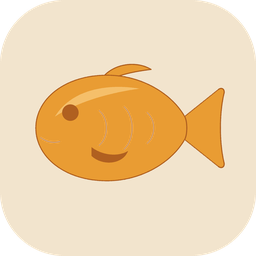
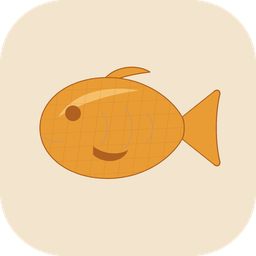
v1.2.6: 이름을 '붕어빵'으로, 창 아이콘 미적용 버그 수정
- 앱 이름을 '붕어빵'으로 변경 (창 제목, 앱 화면, 사이트 3종)
  구글 인증이 '동의화면 이름 = 홈페이지 이름'을 검사하므로 함께 맞춤
- 창/작업표시줄 아이콘이 반영되지 않던 원인 수정:
  pywebview의 create_window에는 아이콘 인자가 없어 app.png가 토스트
  알림에만 쓰이고 있었음. 창 생성 후 Win32 WM_SETICON으로 직접 설정
- 로고를 붕어빵 실물에 가깝게: 몸통에 틀 자국(격자 결) 추가.
  앱 SVG는 pattern+clipPath, 아이콘은 마스크로 몸통 안쪽만 적용
- 캐시 버스터 1.2.6으로 동기화

diff --git a/web/index.html b/web/index.html
@@ -3,9 +3,9 @@
   <head>
     <meta charset="utf-8" />
     <meta name="viewport" content="width=device-width, initial-scale=1" />
-    <title>DGIST LMS AutoSaver</title>
+    <title>붕어빵</title>
     <link rel="icon" type="image/svg+xml" href="/favicon.svg" />
-    <link rel="stylesheet" href="/styles.css?v=1.2.5" />
+    <link rel="stylesheet" href="/styles.css?v=1.2.6" />
   </head>
   <body>
     <div class="app-shell">
@@ -14,10 +14,23 @@
           <div class="brand-mark bungeoppang" aria-hidden="true">
             <!-- 붕어빵: 꼬리·등지느러미 → 몸통 → 가슴지느러미·비늘·눈 순으로 겹침 -->
             <svg viewBox="0 0 24 24">
+              <defs>
+                <!-- 붕어빵 틀 자국 -->
+                <pattern id="bpGrid" width="1.55" height="1.55" patternUnits="userSpaceOnUse"
+                         patternTransform="rotate(12)">
+                  <path d="M0 0V1.55M0 0H1.55" stroke="currentColor" stroke-width="0.16" fill="none" />
+                </pattern>
+                <clipPath id="bpBodyClip">
+                  <path d="M2.4 12C2.4 9 5.4 6.5 9.8 6.5C13.5 6.5 16.6 8.5 17.9 10.8C18.2 11.3 18.2 12.7 17.9 13.2C16.6 15.5 13.5 17.5 9.8 17.5C5.4 17.5 2.4 15 2.4 12Z" />
+                </clipPath>
+              </defs>
               <path class="bp-body" d="M17.9 10.8L21.4 8C21.8 7.7 22.1 8 22 8.4C21.5 10.5 21.5 13.5 22 15.6C22.1 16 21.8 16.3 21.4 16L17.9 13.2Z" />
               <path class="bp-body" d="M9 7.3C10 5.3 12.8 4.9 14.4 5.9C12.7 6.1 10.6 6.5 9.4 7.4Z" />
               <path class="bp-body" d="M2.4 12C2.4 9 5.4 6.5 9.8 6.5C13.5 6.5 16.6 8.5 17.9 10.8C18.2 11.3 18.2 12.7 17.9 13.2C16.6 15.5 13.5 17.5 9.8 17.5C5.4 17.5 2.4 15 2.4 12Z" />
               <path class="bp-hi" d="M4.4 10.8C6 8.2 9.4 7.3 13.2 7.9C9.6 8.4 6.6 9.4 4.4 10.8Z" />
+              <g class="bp-grid" clip-path="url(#bpBodyClip)">
+                <rect x="0" y="0" width="24" height="24" fill="url(#bpGrid)" />
+              </g>
               <path class="bp-fin" d="M8.2 14C9.4 14.9 11 15 12 14.4C11.4 15.9 9.2 15.9 8.2 14.9Z" />
               <path class="bp-scale" d="M9 10.2C10 11 10 13 9 13.8" />
               <path class="bp-scale" d="M11.6 9.8C12.7 10.8 12.7 13.2 11.6 14.2" />
@@ -27,8 +40,8 @@
             </svg>
           </div>
           <div>
-            <strong>DGIST LMS</strong>
-            <span>AutoSaver</span>
+            <strong>붕어빵</strong>
+            <span>DGIST LMS 도우미</span>
           </div>
         </div>
 
@@ -759,6 +772,6 @@
     </dialog>
 
     <div class="toast" id="toast" role="status" aria-live="polite"></div>
-    <script src="/app.js?v=1.2.5" defer></script>
+    <script src="/app.js?v=1.2.6" defer></script>
   </body>
 </html>

diff --git a/docs/index.html b/docs/index.html
@@ -3,7 +3,7 @@
 <head>
 <meta charset="utf-8" />
 <meta name="viewport" content="width=device-width, initial-scale=1" />
-<title>DGIST LMS AutoSaver</title>
+<title>붕어빵</title>
 <meta name="description" content="DGIST LMS 자료와 학교 메일을 자동으로 정리해 주는 개인용 학습 관리 앱." />
 <link rel="icon" type="image/svg+xml" href="favicon.svg" />
 <link rel="stylesheet" href="style.css" />
@@ -31,8 +31,8 @@
       </svg>
     </div>
     <div class="bar-title">
-      <strong>DGIST LMS</strong>
-      <span>AutoSaver</span>
+      <strong>붕어빵</strong>
+      <span>DGIST LMS 도우미</span>
     </div>
     <nav>
       <a href="privacy.html">개인정보처리방침</a>
@@ -43,9 +43,9 @@
 </header>
 
 <main class="wrap">
-  <h1>DGIST LMS AutoSaver</h1>
+  <h1>붕어빵</h1>
   <p class="lead">
-    <strong>DGIST LMS AutoSaver</strong>는 DGIST 학생이 강의자료와 학교 메일을 자동으로 정리하도록
+    <strong>붕어빵</strong>은 DGIST 학생이 강의자료와 학교 메일을 자동으로 정리하도록
     도와주는 개인용 데스크톱 앱입니다. 사용자의 컴퓨터에서 실행되며,
     LMS에 올라온 강의자료를 과목별로 내려받고, 과제 마감일을 정리해 보여 주며,
     학교 메일에서 찾은 일정을 사용자의 <strong>Google 캘린더</strong>에 등록하고,

diff --git a/docs/privacy.html b/docs/privacy.html
@@ -3,8 +3,8 @@
 <head>
 <meta charset="utf-8" />
 <meta name="viewport" content="width=device-width, initial-scale=1" />
-<title>개인정보처리방침 · DGIST LMS AutoSaver</title>
-<meta name="description" content="DGIST LMS AutoSaver 개인정보처리방침" />
+<title>개인정보처리방침 · 붕어빵</title>
+<meta name="description" content="붕어빵 개인정보처리방침" />
 <link rel="icon" type="image/svg+xml" href="favicon.svg" />
 <link rel="stylesheet" href="style.css" />
 </head>
@@ -31,8 +31,8 @@
       </svg>
     </div>
     <div class="bar-title">
-      <strong>DGIST LMS</strong>
-      <span>AutoSaver</span>
+      <strong>붕어빵</strong>
+      <span>DGIST LMS 도우미</span>
     </div>
     <nav>
       <a href="index.html">홈</a>
@@ -43,7 +43,7 @@
 
 <main class="wrap">
   <h1>개인정보처리방침</h1>
-  <p class="meta">최종 수정일: 2026년 7월 23일 · 적용 대상: DGIST LMS AutoSaver 앱(이하 &ldquo;앱&rdquo;)</p>
+  <p class="meta">최종 수정일: 2026년 7월 23일 · 적용 대상: 붕어빵 앱(이하 &ldquo;앱&rdquo;)</p>
 
   <h2>1. 핵심 요약</h2>
   <div class="card">

diff --git a/docs/terms.html b/docs/terms.html
@@ -3,8 +3,8 @@
 <head>
 <meta charset="utf-8" />
 <meta name="viewport" content="width=device-width, initial-scale=1" />
-<title>이용약관 · DGIST LMS AutoSaver</title>
-<meta name="description" content="DGIST LMS AutoSaver 이용약관" />
+<title>이용약관 · 붕어빵</title>
+<meta name="description" content="붕어빵 이용약관" />
 <link rel="icon" type="image/svg+xml" href="favicon.svg" />
 <link rel="stylesheet" href="style.css" />
 </head>
@@ -25,8 +25,8 @@
       </svg>
     </div>
     <div class="bar-title">
-      <strong>DGIST LMS</strong>
-      <span>AutoSaver</span>
+      <strong>붕어빵</strong>
+      <span>DGIST LMS 도우미</span>
     </div>
     <nav>
       <a href="index.html">홈</a>
@@ -41,7 +41,7 @@
 
   <h2>1. 서비스 개요</h2>
   <p>
-    DGIST LMS AutoSaver(이하 &ldquo;앱&rdquo;)는 DGIST 학생이 자신의 학습 자료와 학교 메일을
+    붕어빵(이하 &ldquo;앱&rdquo;)는 DGIST 학생이 자신의 학습 자료와 학교 메일을
     편하게 관리하도록 돕는 개인용 도구입니다. 앱은 사용자 본인의 컴퓨터에서 실행되며,
     개발자는 별도의 서버를 운영하지 않습니다.
   </p>

diff --git a/web/styles.css b/web/styles.css
@@ -173,6 +173,11 @@ body {
   fill: var(--bp-hi);
   stroke: none;
 }
+/* 붕어빵 틀 자국 (currentColor로 패턴 선 색을 물려준다) */
+.bp-grid {
+  color: var(--bp-line);
+  opacity: 0.3;
+}
 .bp-fin {
   fill: var(--bp-line);
   stroke: none;

diff --git a/scripts/make_icons.py b/scripts/make_icons.py
@@ -82,7 +82,10 @@ SCORES = [
 EYE = (6.0, 10.4, 0.85)
 
 
-def render(size: int, ss: int = 8, inset: float = 0.9, radius_ratio: float = 0.25,
+TILT = 0  # 정면 (기울이지 않음)
+
+
+def render(size: int, ss: int = 8, inset: float = 0.86, radius_ratio: float = 0.25,
            transparent_bg: bool = False) -> Image.Image:
     """붕어빵 아이콘 한 장을 그린다."""
     c = size * ss
@@ -92,40 +95,68 @@ def render(size: int, ss: int = 8, inset: float = 0.9, radius_ratio: float = 0.2
         x, y = p
         return ((12 + (x - 12) * inset) * u, (12 + (y - 12) * inset) * u)
 
-    img = Image.new("RGBA", (c, c), (0, 0, 0, 0))
-    d = ImageDraw.Draw(img)
-    if not transparent_bg:
-        d.rounded_rectangle([0, 0, c - 1, c - 1], radius=int(c * radius_ratio), fill=BG)
+    def poly(pts):
+        return [T(p) for p in pts]
 
-    def stroke(pts, color, w, close=True):
+    # --- 붕어빵은 별도 레이어에 그린 뒤 통째로 기울인다 ---
+    fish = Image.new("RGBA", (c, c), (0, 0, 0, 0))
+    fd = ImageDraw.Draw(fish)
+
+    def stroke(dr, pts, color, w, close=True):
         r = max(w * ss / 2, 1)
         for p in (pts + [pts[0]] if close else pts):
             x, y = T(p)
-            d.ellipse([x - r, y - r, x + r, y + r], fill=color)
+            dr.ellipse([x - r, y - r, x + r, y + r], fill=color)
 
     def shape(pts, fill, w=0.95):
-        d.polygon([T(p) for p in pts], fill=fill)
-        stroke(pts, LINE, w)
+        fd.polygon(poly(pts), fill=fill)
+        stroke(fd, pts, LINE, w)
 
     shape(TAIL, BODY)
     shape(DORSAL, BODY)
     shape(BODY_PATH, BODY)
 
-    # 윗면 하이라이트: 노릇하게 구워진 볼록한 면
+    # 노릇하게 구워진 윗면
     hi = _path((4.4, 10.8), [
         ("C", (6.0, 8.2), (9.4, 7.3), (13.2, 7.9)),
         ("C", (9.6, 8.4), (6.6, 9.4), (4.4, 10.8)),
     ])
-    d.polygon([T(p) for p in hi], fill=BODY_HI)
+    fd.polygon(poly(hi), fill=BODY_HI)
 
-    d.polygon([T(p) for p in PECTORAL], fill=LINE)
+    # --- 붕어빵 틀 자국: 몸통 안쪽에만 보이도록 마스크로 잘라낸다 ---
+    body_mask = Image.new("L", (c, c), 0)
+    ImageDraw.Draw(body_mask).polygon(poly(BODY_PATH), fill=255)
+    grid = Image.new("RGBA", (c, c), (0, 0, 0, 0))
+    gd = ImageDraw.Draw(grid)
+    step = 1.55 * inset * u
+    lw = max(int(0.5 * ss), 1)
+    y0 = 5.5 * inset * u
+    x = 3.0 * inset * u
+    while x < c:
+        gd.line([(x, 0), (x - 3.2 * u, c)], fill=(176, 96, 32, 58), width=lw)
+        x += step
+    y = y0
+    while y < c:
+        gd.line([(0, y), (c, y - 1.1 * u)], fill=(176, 96, 32, 58), width=lw)
+        y += step
+    fish.alpha_composite(Image.composite(grid, Image.new("RGBA", (c, c), (0, 0, 0, 0)), body_mask))
+
+    fd.polygon(poly(PECTORAL), fill=LINE)
     for s in SCORES:
-        stroke([s[0]] + _bez(*s), SCORE, 0.8, close=False)
+        stroke(fd, [s[0]] + _bez(*s), SCORE, 0.8, close=False)
 
     ex, ey = T((EYE[0], EYE[1]))
     er = EYE[2] * inset * u
-    d.ellipse([ex - er, ey - er, ex + er, ey + er], fill=LINE)
+    fd.ellipse([ex - er, ey - er, ex + er, ey + er], fill=LINE)
 
+    fish = fish.rotate(TILT, resample=Image.BICUBIC, center=(c / 2, c / 2))
+
+    img = Image.new("RGBA", (c, c), (0, 0, 0, 0))
+    if not transparent_bg:
+        ImageDraw.Draw(img).rounded_rectangle(
+            [0, 0, c - 1, c - 1], radius=int(c * radius_ratio), fill=BG
+        )
+    img.alpha_composite(fish)
     return img.resize((size, size), Image.LANCZOS)
 
 

diff --git a/app.py b/app.py
@@ -31,8 +31,49 @@ import web_ui
 
 HOST = "127.0.0.1"
 PORT = int(os.environ.get("AUTOSAVER_UI_PORT", "8765"))
-WINDOW_TITLE = "DGIST LMS AutoSaver"
+WINDOW_TITLE = "붕어빵"
 APP_ICON = Path(__file__).resolve().parent / "web" / "app.png"
+
+
+APP_ICO = Path(__file__).resolve().parent / "web" / "app.ico"
+
+
+def apply_window_icon(timeout: float = 15.0) -> bool:
+    """pywebview 창에 앱 아이콘을 입힌다 (Windows 전용).
+
+    pywebview의 create_window에는 아이콘 인자가 없어서, 창이 만들어진 뒤
+    Win32 WM_SETICON으로 직접 설정한다. 이걸 하지 않으면 창과 작업표시줄에
+    pythonw.exe의 기본 파이썬 아이콘이 그대로 노출된다.
+    """
+    if os.name != "nt" or not APP_ICO.exists():
+        return False
+    try:
+        import ctypes
+
+        user32 = ctypes.windll.user32
+        IMAGE_ICON, LR_LOADFROMFILE = 1, 0x0010
+        WM_SETICON, ICON_SMALL, ICON_BIG = 0x0080, 0, 1
+
+        deadline = time.time() + timeout
+        hwnd = 0
+        while time.time() < deadline:
+            hwnd = user32.FindWindowW(None, WINDOW_TITLE)
+            if hwnd:
+                break
+            time.sleep(0.3)
+        if not hwnd:
+            return False
+
+        path = str(APP_ICO)
+        big = user32.LoadImageW(None, path, IMAGE_ICON, 32, 32, LR_LOADFROMFILE)
+        small = user32.LoadImageW(None, path, IMAGE_ICON, 16, 16, LR_LOADFROMFILE)
+        if big:
+            user32.SendMessageW(hwnd, WM_SETICON, ICON_BIG, big)
+        if small:
+            user32.SendMessageW(hwnd, WM_SETICON, ICON_SMALL, small)
+        return bool(big or small)
+    except Exception:
+        return False
 
 
 def notify(title: str, message: str) -> None:
@@ -206,6 +247,8 @@ def main() -> None:
         height=880,
         min_size=(900, 640),
     )
+    # 창이 뜬 뒤 아이콘을 입힌다 (pywebview는 Windows에서 아이콘 인자를 지원하지 않음)
+    threading.Thread(target=apply_window_icon, daemon=True).start()
     try:
         webview.start()
     finally: